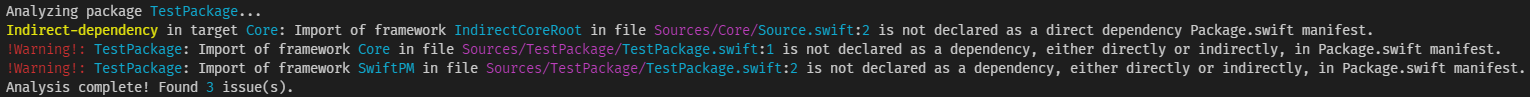
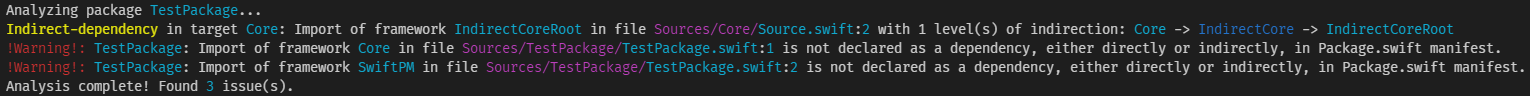
Printing path for indirect dependencies in terminal output mode

diff --git a/Sources/TargetDependencyCheckerLib/DirectedGraph.swift b/Sources/TargetDependencyCheckerLib/DirectedGraph.swift
@@ -1,5 +1,7 @@
 /// A protocol for representing directed graphs
 public protocol DirectedGraph {
+    typealias VisitElement = DirectedGraphVisitElement<Edge, Node>
+
     associatedtype Edge: Hashable
     associatedtype Node: Hashable
     
@@ -65,17 +67,42 @@ public protocol DirectedGraph {
 
 /// Element for a graph visiting operation.
 ///
-/// - root: The item represents the root of a directed graph
-/// - edge: The item represents an edge, pointing to a node of the graph
+/// - start: The item represents the start of a visit.
+/// - edge: The item represents an edge, pointing to a node of the graph. Also
+/// contains information about the path leading up to that edge.
 public enum DirectedGraphVisitElement<E, N> {
-    case root(N)
-    case edge(E, towards: N)
+    case start(N)
+    indirect case edge(E, from: Self, towards: N)
     
+    /// Gets the node at the end of this visit element.
     public var node: N {
         switch self {
-        case .root(let node),
-             .edge(_, let node):
+        case .start(let node),
+             .edge(_, _, let node):
             return node
+        }
+    }
+
+    /// Gets an array of all nodes from this visit element.
+    public var allNodes: [N] {
+        switch self {
+        case .start(let node):
+            return [node]
+        case .edge(_, let from, let node):
+            return from.allNodes + [node]
+        }
+    }
+
+    /// Returns the length of the path represented by this visit element.
+    ///
+    /// Lengths start at 1 from `.start()`, and increase by one for every nested
+    /// element in `.edge()`.
+    public var length: Int {
+        switch self {
+        case .start:
+            return 1
+        case .edge(_, let from, _):
+            return 1 + from.length
         }
     }
 }
@@ -109,11 +136,11 @@ public extension DirectedGraph {
     /// Performs a depth-first visiting of this directed graph, finishing once
     /// all nodes are visited, or when `visitor` returns false.
     @inlinable
-    func depthFirstVisit(start: Node, _ visitor: (DirectedGraphVisitElement<Edge, Node>) -> Bool) {
+    func depthFirstVisit(start: Node, _ visitor: (VisitElement) -> Bool) {
         var visited: Set<Node> = []
-        var queue: [DirectedGraphVisitElement<Edge, Node>] = []
+        var queue: [VisitElement] = []
         
-        queue.append(.root(start))
+        queue.append(.start(start))
         
         while let next = queue.popLast() {
             visited.insert(next.node)
@@ -128,7 +155,7 @@ public extension DirectedGraph {
                     continue
                 }
                 
-                queue.append(.edge(nextEdge, towards: node))
+                queue.append(.edge(nextEdge, from: next, towards: node))
             }
         }
     }
@@ -136,11 +163,11 @@ public extension DirectedGraph {
     /// Performs a breadth-first visiting of this directed graph, finishing once
     /// all nodes are visited, or when `visitor` returns false.
     @inlinable
-    func breadthFirstVisit(start: Node, _ visitor: (DirectedGraphVisitElement<Edge, Node>) -> Bool) {
+    func breadthFirstVisit(start: Node, _ visitor: (VisitElement) -> Bool) {
         var visited: Set<Node> = []
-        var queue: [DirectedGraphVisitElement<Edge, Node>] = []
+        var queue: [VisitElement] = []
         
-        queue.append(.root(start))
+        queue.append(.start(start))
         
         while !queue.isEmpty {
             let next = queue.removeFirst()
@@ -156,7 +183,7 @@ public extension DirectedGraph {
                     continue
                 }
                 
-                queue.append(.edge(nextEdge, towards: node))
+                queue.append(.edge(nextEdge, from: next, towards: node))
             }
         }
     }
@@ -233,5 +260,52 @@ public extension DirectedGraph {
     @inlinable
     func hasEdge(from start: Node, to end: Node) -> Bool {
         return edge(from: start, to: end) != nil
+    }
+    
+    /// Returns the first path found between two nodes.
+    ///
+    /// If `start == end`, `[start]` is returned.
+    ///
+    /// In case the two nodes are not connected, or are connected in the opposite
+    /// direction, `nil` is returned.
+    @inlinable
+    func firstPath(from start: Node, to end: Node) -> [Node]? {
+        var path: VisitElement?
+
+        breadthFirstVisit(start: start) { visit in
+            if visit.node == end {
+                path = visit
+                return true
+            }
+            
+            return true
+        }
+        
+        return path?.allNodes
+    }
+    
+    /// Returns the any of the shortest paths found between two nodes.
+    ///
+    /// If `start == end`, `[start]` is returned.
+    ///
+    /// In case the two nodes are not connected, or are connected in the opposite
+    /// direction, `nil` is returned.
+    @inlinable
+    func shortestPath(from start: Node, to end: Node) -> [Node]? {
+        var paths: [VisitElement] = []
+
+        breadthFirstVisit(start: start) { visit in
+            if visit.node == end {
+                paths.append(visit)
+            }
+            
+            return true
+        }
+        
+        if paths.isEmpty {
+            return nil
+        }
+
+        return paths.sorted(by: { $0.length < $1.length }).first?.allNodes
     }
 }

diff --git a/Sources/TargetDependencyCheckerLib/DiagnosticsOutput/TerminalDiagnosticsOutput.swift b/Sources/TargetDependencyCheckerLib/DiagnosticsOutput/TerminalDiagnosticsOutput.swift
@@ -35,6 +35,7 @@ class TerminalDiagnosticsOutput: DiagnosticsOutput {
     func reportNonDirectDependencyImport(_ checker: DependencyChecker,
                                          importDecl: ImportedFrameworkDeclaration,
                                          target: Target,
+                                         dependenciesPath: [String],
                                          file: SourceFile,
                                          relativePath: String) {
         _warningsCount += 1
@@ -44,7 +45,7 @@ class TerminalDiagnosticsOutput: DiagnosticsOutput {
             in target \(targetName: target.name): \
             Import of framework \(frameworkName: importDecl.frameworkName) \
             in file \(filePath: _selectPath(file: file, relativePath: relativePath)):\(lineNumber: importDecl.location.line) \
-            is not declared as a direct dependency Package.swift manifest.
+            with \(dependenciesPath.count - 2) level(s) of indirection: \(dependenciesPath: dependenciesPath)
             """)
     }
 
@@ -88,6 +89,7 @@ private struct ConsoleColorInterpolatedString: ExpressibleByStringInterpolation 
         private let _projectNameColor: ConsoleColor = .cyan
         private let _frameworkNameColor: ConsoleColor = .cyan
         private let _targetNameColor: ConsoleColor = .cyan
+        private let _indirectTargetNameColor: ConsoleColor = .blue
         private let _lineNumberColor: ConsoleColor = .cyan
         private let _filePathColor: ConsoleColor = .magenta
         private let _fileNameColor: ConsoleColor = .cyan
@@ -130,6 +132,22 @@ private struct ConsoleColorInterpolatedString: ExpressibleByStringInterpolation 
 
         mutating func appendInterpolation(lineNumber: Int?) {
             _append("\(lineNumber?.description ?? "<unknown>")", color: _lineNumberColor)
+        }
+
+        mutating func appendInterpolation(dependenciesPath: [String]) {
+            guard dependenciesPath.count > 2 else {
+                return
+            }
+            
+            _append("\(dependenciesPath[0])", color: _targetNameColor)
+
+            for dependency in dependenciesPath.dropFirst().dropLast() {
+                _append(" -> ", color: nil)
+                _append("\(dependency)", color: _indirectTargetNameColor)
+            }
+
+            _append(" -> ", color: nil)
+            _append("\(dependenciesPath[dependenciesPath.count - 1])", color: _targetNameColor)
         }
 
         mutating func appendInterpolation<T>(packageName: T) {

diff --git a/Sources/TargetDependencyCheckerLib/DependencyChecker.swift b/Sources/TargetDependencyCheckerLib/DependencyChecker.swift
@@ -65,8 +65,10 @@ public class DependencyChecker {
                     continue
                 }
             }
-            
-            if !dependencyGraph.hasPath(from: importDecl.frameworkName, to: target.name) {
+
+            // Attempt to find a path, reporting an undeclared dependency if none
+            // is found.
+            guard let path = dependencyGraph.shortestPath(from: importDecl.frameworkName, to: target.name) else {
                 diagnosticsTarget
                     .reportNonDependencyImport(
                         self,
@@ -75,12 +77,17 @@ public class DependencyChecker {
                         file: file,
                         relativePath: relativePath
                     )
-            } else if options.warnIndirectDependencies && !dependencyGraph.hasEdge(from: importDecl.frameworkName, to: target.name) {
+                
+                continue
+            }
+
+            if options.warnIndirectDependencies && path.count > 2 {
                 diagnosticsTarget
                     .reportNonDirectDependencyImport(
                         self,
                         importDecl: importDecl,
                         target: target,
+                        dependenciesPath: path.reversed(),
                         file: file,
                         relativePath: relativePath
                     )

diff --git a/Tests/TargetDependencyCheckerTests/TargetDependencyCheckerTests.swift b/Tests/TargetDependencyCheckerTests/TargetDependencyCheckerTests.swift
@@ -76,7 +76,7 @@ final class TargetDependencyCheckerTests: XCTestCase {
         
         XCTAssertEqual(result.standardOutput, """
             Analyzing package TestPackage...
-            Indirect-dependency in target Core: Import of framework IndirectCoreRoot in file Sources/Core/Source.swift:2 is not declared as a direct dependency Package.swift manifest.
+            Indirect-dependency in target Core: Import of framework IndirectCoreRoot in file Sources/Core/Source.swift:2 with 1 level(s) of indirection: Core -> IndirectCore -> IndirectCoreRoot
             !Warning!: TestPackage: Import of framework Core in file Sources/TestPackage/TestPackage.swift:1 is not declared as a dependency, either directly or indirectly, in Package.swift manifest.
             !Warning!: TestPackage: Import of framework SwiftPM in file Sources/TestPackage/TestPackage.swift:2 is not declared as a dependency, either directly or indirectly, in Package.swift manifest.
             Analysis complete! Found 3 issue(s).

diff --git a/Sources/TargetDependencyCheckerLib/DiagnosticsOutput/XcodeDiagnosticsOutput.swift b/Sources/TargetDependencyCheckerLib/DiagnosticsOutput/XcodeDiagnosticsOutput.swift
@@ -28,6 +28,7 @@ class XcodeDiagnosticsOutput: DiagnosticsOutput {
     func reportNonDirectDependencyImport(_ checker: DependencyChecker,
                                          importDecl: ImportedFrameworkDeclaration,
                                          target: Target,
+                                         dependenciesPath: [String],
                                          file: SourceFile,
                                          relativePath: String) {
 

diff --git a/Sources/TargetDependencyCheckerLib/DiagnosticsOutput/DiagnosticsOutput.swift b/Sources/TargetDependencyCheckerLib/DiagnosticsOutput/DiagnosticsOutput.swift
@@ -21,6 +21,7 @@ protocol DiagnosticsOutput {
         _ checker: DependencyChecker,
         importDecl: ImportedFrameworkDeclaration,
         target: Target,
+        dependenciesPath: [String],
         file: SourceFile,
         relativePath: String
     )
